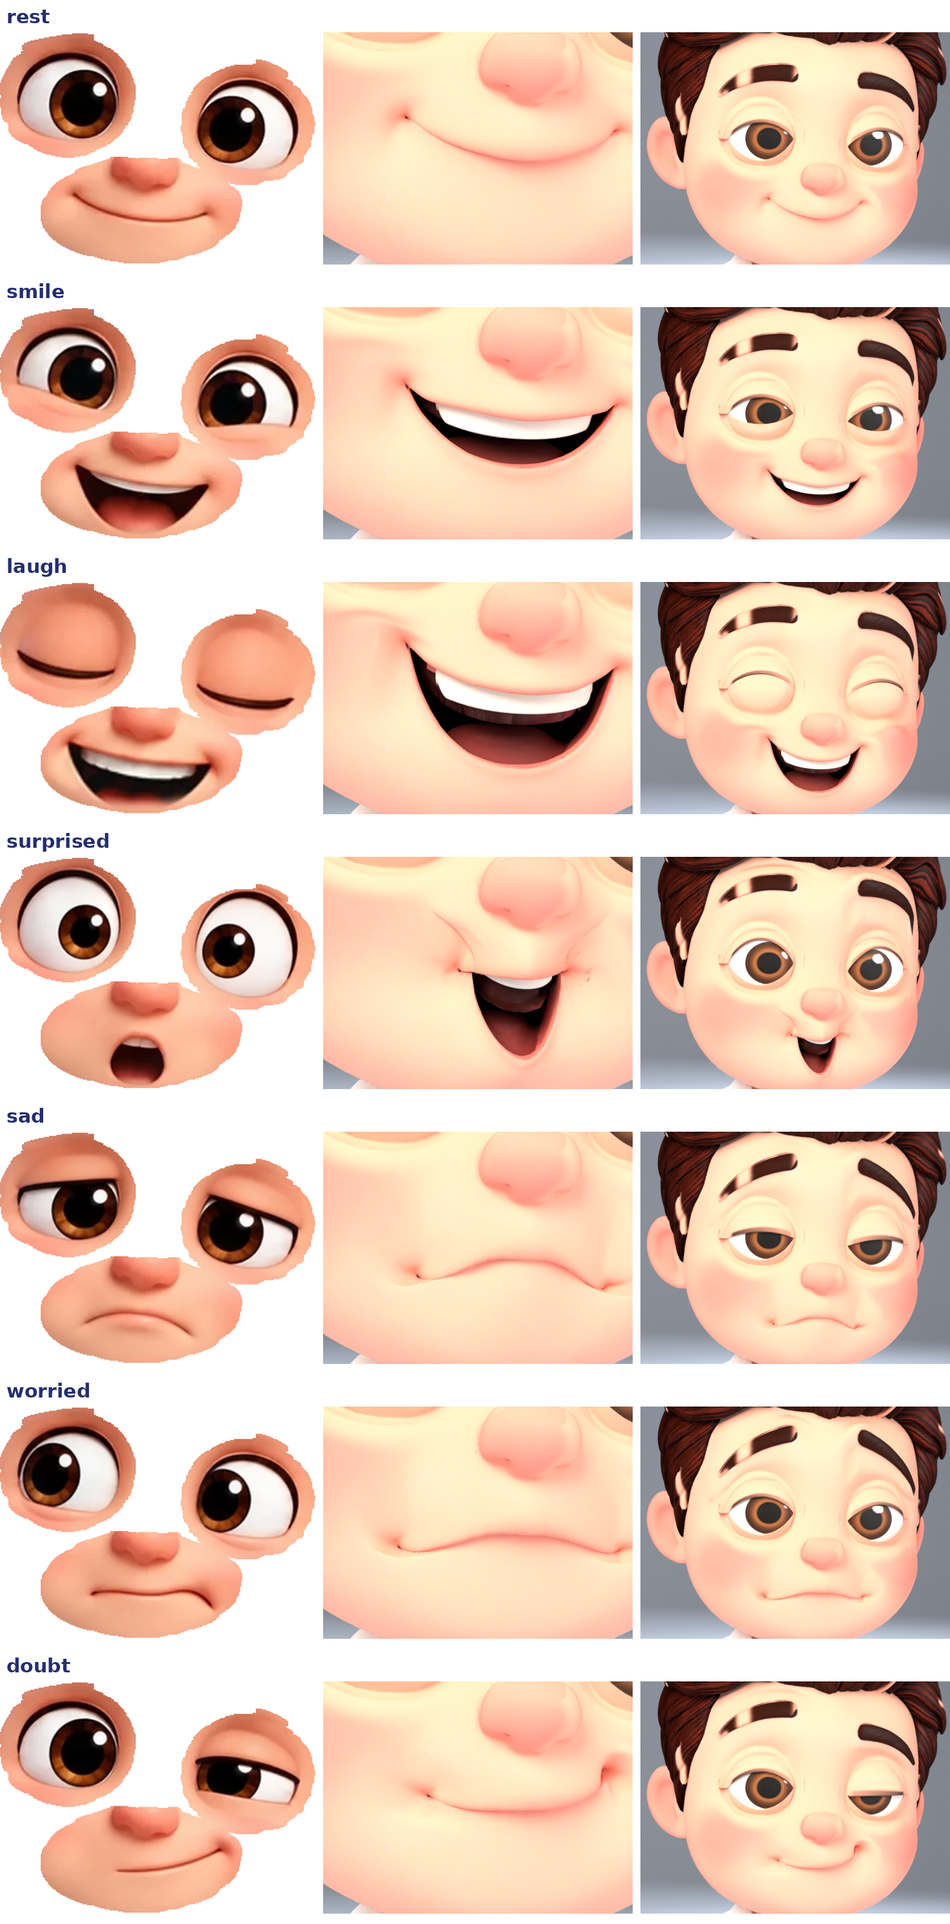
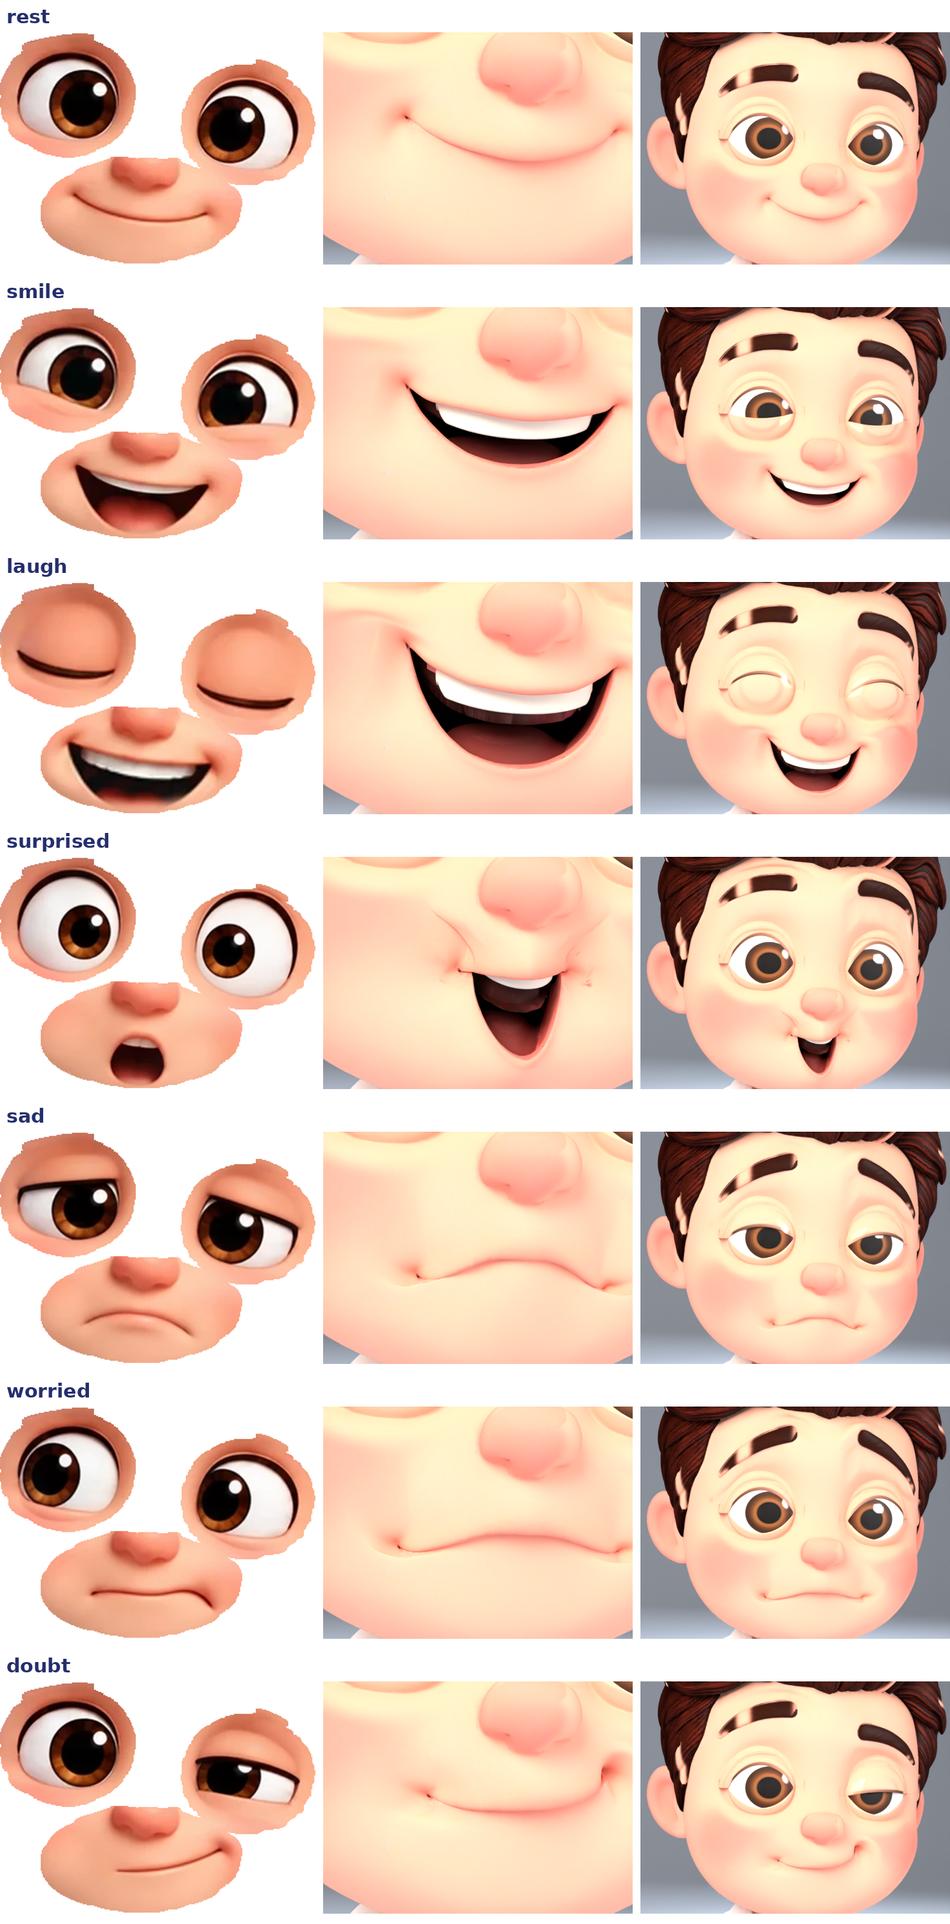
3D Dr. Smiley, step A review 3: the eyes after Jose's notes (code and notes; pictures follow)
The upper lid rests on the iris top (it covered a third of it: a tired
look); the blink closes on the lower lid's edge (the gap between them was
the dark crescent); the lash line lives on rows with a fixed spacing (by
row, a shut lid's lash zone grew into half the eye); thinner lid edges,
the dome's clearance only over the iris; the smile keeps the eyes bright
(cheeks and lower lids up, the upper lid lifted a touch; the cheek key
reaches the lower socket); the balls 3 mm deeper than at first. Tried and
reverted, noted in the handoff: a flatter ball, an under-brow pad, a
forward-only lower lid. The review script adds side profiles, the
in-between shapes and a wireframe. Docs only.

Claude-Session: https://claude.ai/code/session_018cy8uW9Woai5Ttyox29VXD

diff --git a/docs/mockups/smiley-3d/tripo_gateA.py b/docs/mockups/smiley-3d/tripo_gateA.py
@@ -1,6 +1,10 @@
-"""Step A's gate picture (out/plan-match.png): neutral, warm smile and joyful
-laugh beside Jose's reference tiles, the old shell lids beside the new skin
-lids, front and three-quarter; a blink; eye close-ups. out/plan/gateA.png
+"""Step A's review pictures (out/plan-match.png; Jose's review brief 2026-10-23):
+  out/plan/gateA.png        neutral, warm smile, joyful laugh, relaxed blink: Jose's reference
+                            tile, the old shell lids, the new lids front, three-quarter, one eye
+  out/plan/gateA-side.png   the side profile: rest and blink, old and new
+  out/plan/gateA-moves.png  the in-between shapes: rest -> blink -> rest, rest -> smile -> laugh
+  out/plan/gateA-wire.png   the wireframe of the eyelid ring and the face round it
+Same camera, light and framing for the old and the new.
 
   python3 tripo_gateA.py [old.blend]     old.blend: the model before the skin lids, for the "before" tiles
 """
@@ -20,36 +24,113 @@ REF = '/root/.claude/uploads/0a3f0758-232c-5ae0-8fad-34b3e0089a86/8238b9ff-image
 TILES = {'rest': (60, 100, 460, 400), 'smile': (560, 100, 960, 400), 'laugh': (60, 470, 460, 770), 'blink': (560, 1210, 960, 1510)}
 LABEL = {'rest': 'neutral', 'smile': 'warm smile', 'laugh': 'joyful laugh', 'blink': 'relaxed blink'}
 FB = '/usr/share/fonts/truetype/dejavu/DejaVuSans-Bold.ttf'
+W, G = 480, 12
 
 
-def faces(blend, tag):
+def studio(blend):
     bpy.ops.wm.open_mainfile(filepath=blend)
     ob = bpy.data.objects['Mesh_0']
     build.STYLE_NOW = 'tripo'; cam = build.studio(); sc = bpy.context.scene; sc.camera = cam
     sc.cycles.samples = int(os.environ.get('SAMPLES', 20))
     op = np.load(os.path.join(HERE, 'in', 'mouth-opening.npz')); CX = float(op['CX'])
     eL = bpy.data.objects['Eye.L'].matrix_world.translation
+    states = dict(MOUTHS); states['blink'] = dict(close=1, lid=(1, 1))
+    return ob, CX, eL, states
+
+
+def faces(blend, tag):
+    ob, CX, eL, states = studio(blend)
     out = {}
-    states = dict(MOUTHS)
-    states['blink'] = dict(close=1, lid=(1, 1))
     for name in ('rest', 'smile', 'laugh', 'blink'):
         set_face(ob, **states[name])
-        out[name, 'front'] = shot(os.path.join(TMP, f'ga-{tag}-{name}-front.png'), (CX, 0, .74), .95, 0, 2, (480, 360))
-        out[name, '34'] = shot(os.path.join(TMP, f'ga-{tag}-{name}-34.png'), (CX, 0, .74), .95, -35, 3, (480, 360))
-        out[name, 'eye'] = shot(os.path.join(TMP, f'ga-{tag}-{name}-eye.png'), (eL.x, 0, eL.z), .42, -8, 4, (480, 360))
+        out[name, 'front'] = shot(os.path.join(TMP, f'ga-{tag}-{name}-front.png'), (CX, 0, .74), .95, 0, 2, (W, 360))
+        out[name, '34'] = shot(os.path.join(TMP, f'ga-{tag}-{name}-34.png'), (CX, 0, .74), .95, -35, 3, (W, 360))
+        out[name, 'eye'] = shot(os.path.join(TMP, f'ga-{tag}-{name}-eye.png'), (eL.x, 0, eL.z), .42, -8, 4, (W, 360))
+        if name in ('rest', 'blink'):
+            out[name, 'side'] = shot(os.path.join(TMP, f'ga-{tag}-{name}-side.png'), (eL.x, -.09, eL.z), .5, -82, 2, (W, 360))   # brow to cheek in view
     return out
+
+
+def moves(blend):
+    """The in-between shapes, the face at rest otherwise."""
+    ob, CX, eL, states = studio(blend)
+    rows = []
+    seq = [('rest → blink → rest', [dict(lid=(k, k)) for k in (0, .3, .6, .85, 1, .7, .35, 0)])]
+    sm = states['smile']; la = states['laugh']
+    seq.append(('rest → smile → laugh', [dict()] + [dict(close=0, cheek=(k, k), lower=(.45 * k, .45 * k), lid=(.32 - .1 * k, .32 - .1 * k), brow=((2 * k, 0), (2.4 * k, 0))) for k in (.5, 1)]
+                + [dict(close=0, cheek=(1 + .6 * k, 1 + .6 * k), happy=k, lower=(.45 + .55 * k, .45 + .55 * k), brow=((2 + .8 * k, 0), (2.4 + k, 0)), mouth={'JawOpen': 1.2 * k, 'CornerUp.L': k, 'CornerUp.R': k}) for k in (.35, .7, 1)]))
+    for title, ctls in seq:
+        tiles = []
+        for k, ctl in enumerate(ctls):
+            set_face(ob, **ctl)
+            tiles.append(shot(os.path.join(TMP, f'ga-move-{len(rows)}-{k}.png'), (CX, 0, .76), .7, -12, 3, (300, 240)))
+        row = Image.new('RGB', (300 * len(tiles) + 8 * (len(tiles) - 1), 240 + 36), 'white'); g = ImageDraw.Draw(row)
+        g.text((8, 6), title, font=ImageFont.truetype(FB, 22), fill=(37, 46, 109))
+        for k, t in enumerate(tiles):
+            row.paste(t, (308 * k, 36))
+        rows.append(row)
+    sheet = Image.new('RGB', (max(r.width for r in rows), sum(r.height + 10 for r in rows)), 'white')
+    y = 0
+    for r in rows:
+        sheet.paste(r, (0, y)); y += r.height + 10
+    sheet.save(os.path.join(HERE, 'out', 'plan', 'gateA-moves.png'))
+
+
+def wire(blend):
+    """The eyelid ring and the face round it as a wireframe: a copy of the faces near
+    the left eye with a Wireframe modifier (black), over the shaded face."""
+    ob, CX, eL, states = studio(blend)
+    me = ob.data
+    co = np.empty(len(me.vertices) * 3); me.vertices.foreach_get('co', co); co = co.reshape(-1, 3)
+    near = np.linalg.norm(co - np.array(eL), axis=1) < .06
+    pv = np.empty(len(me.loops), dtype=np.int64); me.loops.foreach_get('vertex_index', pv); tri = pv.reshape(-1, 3)
+    keep = near[tri].all(1)
+    import bmesh
+    bm = bmesh.new()
+    idx = {}
+    for i in np.nonzero(near)[0]:
+        idx[int(i)] = bm.verts.new(co[i])
+    for f in tri[keep]:
+        try:
+            bm.faces.new([idx[int(v)] for v in f])
+        except ValueError:
+            pass
+    wm = bpy.data.meshes.new('EyeWire'); bm.to_mesh(wm); bm.free()
+    wo = bpy.data.objects.new('EyeWire', wm); bpy.context.scene.collection.objects.link(wo)
+    wo.matrix_world = ob.matrix_world.copy()
+    mod = wo.modifiers.new('wire', 'WIREFRAME'); mod.thickness = .00025; mod.use_replace = True
+    m = bpy.data.materials.new('Wire'); m.use_nodes = True
+    e = m.node_tree.nodes.new('ShaderNodeEmission'); e.inputs['Color'].default_value = (.02, .02, .05, 1); e.inputs['Strength'].default_value = 1
+    m.node_tree.links.new(e.outputs[0], m.node_tree.nodes['Material Output'].inputs['Surface'])
+    wm.materials.append(m)
+    out = []
+    for name in ('rest', 'blink'):
+        set_face(ob, **states[name])
+        # the wire copy does not move with the keys: for the blink it is rebuilt from the evaluated mesh
+        dg = bpy.context.evaluated_depsgraph_get(); ev = ob.evaluated_get(dg).data
+        ec = np.empty(len(ev.vertices) * 3); ev.vertices.foreach_get('co', ec); ec = ec.reshape(-1, 3)
+        for i, v in idx.items():
+            pass
+        wco = np.empty(len(wm.vertices) * 3); wm.vertices.foreach_get('co', wco); wco = wco.reshape(-1, 3)
+        order = np.nonzero(near)[0]
+        wm.vertices.foreach_set('co', ec[order].ravel()); wm.update()
+        out.append(shot(os.path.join(TMP, f'ga-wire-{name}.png'), (eL.x, -.1, eL.z), .3, -20, 6, (700, 525)))
+    sheet = Image.new('RGB', (700 * 2 + 12, 525 + 36), 'white'); g = ImageDraw.Draw(sheet)
+    g.text((8, 6), 'wireframe: the lid ring and the face round it, rest and blink (left eye, three-quarter)', font=ImageFont.truetype(FB, 22), fill=(37, 46, 109))
+    sheet.paste(out[0], (0, 36)); sheet.paste(out[1], (712, 36))
+    sheet.save(os.path.join(HERE, 'out', 'plan', 'gateA-wire.png'))
 
 
 if __name__ == '__main__':
     old = sys.argv[1] if len(sys.argv) > 1 and os.path.exists(sys.argv[1]) else None
+    new_blend = os.path.join(HERE, 'in', 'tripo-face.blend')
     before = faces(old, 'old') if old else {}
-    now = faces(os.path.join(HERE, 'in', 'tripo-face.blend'), 'new')
+    now = faces(new_blend, 'new')
     ref = Image.open(REF).convert('RGB')
     f = ImageFont.truetype(FB, 24)
-    W = 480; G = 12
     rows = []
     for name in ('rest', 'smile', 'laugh', 'blink'):
-        tiles = [(LABEL[name] + ': your reference', ref.crop(TILES[name]).resize((W, 360)))]
+        tiles = [(LABEL[name] + ': reference (generated art)', ref.crop(TILES[name]).resize((W, 360)))]
         if before:
             tiles.append(('before (shell lids)', before[name, 'front']))
         tiles += [('now, front', now[name, 'front']), ('now, three-quarter', now[name, '34']), ('now, one eye', now[name, 'eye'])]
@@ -62,4 +143,16 @@ if __name__ == '__main__':
     for r in rows:
         sheet.paste(r, (0, y)); y += r.height + 10
     sheet.save(os.path.join(HERE, 'out', 'plan', 'gateA.png'))
+    # the side profiles
+    tiles = []
+    for name in ('rest', 'blink'):
+        if before:
+            tiles.append((LABEL[name] + ', side: before', before[name, 'side']))
+        tiles.append((LABEL[name] + ', side: now', now[name, 'side']))
+    row = Image.new('RGB', ((W + G) * len(tiles), 360 + 40), 'white'); g = ImageDraw.Draw(row)
+    for i, (lab, im) in enumerate(tiles):
+        g.text(((W + G) * i + 8, 6), lab, font=f, fill=(37, 46, 109)); row.paste(im, ((W + G) * i, 40))
+    row.save(os.path.join(HERE, 'out', 'plan', 'gateA-side.png'))
+    moves(new_blend)
+    wire(new_blend)
     print('done')

diff --git a/docs/mockups/smiley-3d/tripo_lids.py b/docs/mockups/smiley-3d/tripo_lids.py
@@ -39,17 +39,18 @@ COLS, ROWS = 160, 22           # columns across the eye, rows from the edge out 
 RIM = 2                        # rows rolled under the edge toward the ball
 S_X, S_Z = 1.3, 1.2            # the cut, in ball units (an oval a little wider than tall)
 W_C, U_C = -.06, .97           # the corners: height and half width, ball units
-H_TOP, H_BOT = .5, -.8         # the edges at rest: the upper on the iris top, the lower under it
-H_SHUT = -.74                  # the upper edge shut (just above the resting lower lid)
+H_TOP, H_BOT = .72, -.76       # the edges at rest: the upper just touching the iris top (its top is at .8), the lower on the iris bottom (at -.86 the closure sat 10 mm behind the cheek, a V-crease)
+H_SHUT = H_BOT + .015          # the upper edge shut: on the lower lid's edge (a .06 gap showed as a dark crescent)
 H_LOW = .4                     # the lower edge fully raised (the laugh: a high upward arc)
-H_WIDE = .74                   # the upper edge raised (surprise: white above the iris)
+H_WIDE = .88                   # the upper edge raised (surprise: white above the iris)
 Q = .8                         # the edge curve's roundness
-THICK = .0012                  # the lid's thickness at its edge
+THICK = .0008                  # the lid's thickness at its edge
 BULGE = .0026                  # the glass dome over the iris (tripo_eyes2.py)
 U_STEPS, D_STEPS = 6, 4
 RIM_W = (.03, .015)            # the rim rows, inward from the edge (ball units of height)
-FOLD_AT, FOLD_W, FOLD_DEPTH = .42, .07, .0011   # the fold above the open eye: where along the lid (0 edge .. 1 cut), its width, its depth (into the face)
-LASH_FULL, LASH_END = .16, .27                 # the lash line: full to this part of the lid, gone by this
+FOLD_AT, FOLD_W, FOLD_DEPTH = .42, .11, .0008   # the fold above the open eye: where along the lid (0 edge .. 1 cut), its width, its depth (into the face)
+NFIX, FIX_STEP = 6, .015                       # rows above the edge at a fixed .5 mm spacing (ball units), in every state
+LASH_ROWS = (1., 1., 1., 1., .6, .25)          # the lash line on those rows, from the edge up: 2 mm full, gone by 3 mm
 FEATHER = .3                   # the ring's flat colour feathers into his texture this far past the cut (ball units)
 
 
@@ -118,10 +119,14 @@ class EyeRing:
         i0, j0 = fi.astype(int), fj.astype(int); ti, tj = fi - i0, fj - j0
         return g[i0, j0] * (1 - ti) * (1 - tj) + g[i0 + 1, j0] * ti * (1 - tj) + g[i0, j0 + 1] * (1 - ti) * tj + g[i0 + 1, j0 + 1] * ti * tj
 
-    def ball_y(self, a, i, upper):
+    def ball_y(self, a, i, upper, shut=0.):
         """y of the lid over the ball at radius a (ball units): the ball's front plus the
-        lid's thickness, more over the glass dome; past the ball, flat. Rows 0, 1: the rim."""
-        margin = THICK + (BULGE + .0002) * (1 - smooth((min(a, 1.) - .7) / .25)) + (.0006 if upper else 0.)
+        lid's thickness, more over the glass dome; past the ball, flat. Rows 0, 1: the rim.
+        shut (0..1): a closing lid settles onto the dome (a lid that kept its open clearance
+        when shut read as a cap standing off the eye)."""
+        # the dome's clearance only over the dome (the iris, a < .6): at the open lid's edge it made a 5 mm plate
+        # (shut, the clearance over the dome was cut to a tenth: the glass dome then poked through the shut lid)
+        margin = THICK + (BULGE + .0003) * (1 - smooth((min(a, 1.) - .5) / .2)) + ((.0005 * (1 - .7 * shut)) if upper else 0.)
         if i == 0:
             margin = .0003
         elif i == 1:
@@ -137,17 +142,23 @@ class EyeRing:
         pts = np.zeros((RIM + 1 + ROWS, COLS + 1, 3))
         sgn = 1 if upper else -1
         lift = 0. if upper else (h - H_BOT) / (H_LOW - H_BOT)                # the lower lid rising: 0 .. 1
+        shut = float(np.clip((H_TOP - h) / (H_TOP - H_SHUT), 0, 1)) if upper else 0.   # the upper lid closing: 0 .. 1
         for j, u in enumerate(self.u):
             we = float(edge_h(u, h))
             # the ring ends 5% inside the cut: on the cut itself its outer row lay on top of the
             # cut's zigzag, and the bridge between them was all slivers (a dotted ring)
             ws = sgn * S_Z * math.sqrt(max(0., 1 - (u / S_X) ** 2)) * .93
             taper = float(np.clip((U_C - abs(u)) / .1, 0, 1))                 # the rim thins out at the corners
-            rows = [we - sgn * RIM_W[0] * taper, we - sgn * RIM_W[1] * taper] + [we + (ws - we) * (k / ROWS) ** 1.4 for k in range(ROWS + 1)]
+            thin = 1 - .5 * shut                                                # the rim rolls thinner as the lid shuts (a delicate closure line)
+            # the first NFIX rows above the edge keep a fixed spacing in every state (the lash line
+            # lives on them: spread with the rest, a shut lid's lash zone grew into half the eye)
+            fixed = [we + sgn * FIX_STEP * k for k in range(NFIX + 1)]
+            rest_span = (ws - fixed[-1])
+            rows = [we - sgn * RIM_W[0] * taper * thin, we - sgn * RIM_W[1] * taper * thin] + fixed + [fixed[-1] + rest_span * (k / (ROWS - NFIX)) ** 1.2 for k in range(1, ROWS - NFIX + 1)]
             y_cut = float(self.y_cut['up' if upper else 'lo'][j])
             for i, w in enumerate(rows):
                 a = math.hypot(u, w)
-                yb = self.ball_y(a, i, upper)
+                yb = self.ball_y(a, i, upper, shut)
                 if i < RIM:
                     y = yb
                 else:
@@ -157,7 +168,7 @@ class EyeRing:
                     # every earlier scheme (a curve to the cut, the skin's slope matched per column)
                     # met his skin in a crease that read as a ring round the eye
                     ys = self.cast_y(u, w)
-                    F = float(smooth((1 - a) / .5)) if a < 1 else 0.
+                    F = float(smooth((1 - a) / (.5 + .4 * shut))) if a < 1 else 0.     # shut: the lid leaves the ball earlier, a tent over its rim (a cap otherwise)
                     y = F * yb + (1 - F) * ys
                     if a < 1:                                            # never behind the ball's clearance (softly)
                         y = (y + yb) / 2 - math.sqrt(((y - yb) / 2) ** 2 + .0006 ** 2)
@@ -167,8 +178,6 @@ class EyeRing:
                         openness = float(np.clip((h - H_SHUT) / (H_TOP - H_SHUT), 0, 1))
                         y += FOLD_DEPTH * openness * math.exp(-((t - FOLD_AT) / FOLD_W) ** 2) * float(np.clip(1 - (u / U_C) ** 2, 0, 1)) ** .5
                     y -= .0022 * lift * (1 - (u / S_X) ** 2) * float(smooth((t - .2) / .3) * (1 - smooth((t - .55) / .45)))
-                if i == RIM + ROWS:
-                    y = y_cut
                 pts[i, j] = (self.rx * u, y, self.rz * w)
         return pts
 
@@ -189,6 +198,7 @@ def cut_and_ring(ob, eyes):
     """The surgery. eyes: {'L': Eye.L object, 'R': Eye.R}. Returns {'L': EyeRing, 'R': EyeRing}."""
     import tripo_lib as T, build
     me = ob.data
+    # (an under-brow pad, the skin above the eye brought 4 mm forward, was tried: any local lift read as a raised disc round the eye)
     rings = {s: EyeRing(e, s) for s, e in eyes.items()}
     img, px = T.texture(ob)
     bm = bmesh.new(); bm.from_mesh(me)
@@ -261,12 +271,11 @@ def cut_and_ring(ob, eyes):
             # and the first tenth of the lid's front: the edge zone wraps over the ball and is
             # seen foreshortened from the front, so a line only on it read as a hairline
             outer = (1 + inner * u / U_C) / 2                           # 0 at the nose .. 1 at the outer corner
-            for i in range(RIM + 1, RIM + 1 + ROWS):
-                t = (i - RIM) / ROWS
-                full = LASH_FULL * (1 + .5 * outer)                    # thicker toward the outer corner
-                k = 1. if t <= full else 1 - float(smooth((t - full) / (LASH_END - LASH_FULL)))
-                if k > 0:
-                    verts['up'][i][j][lash_lay] = k * taper
+            for n, k in enumerate(LASH_ROWS):
+                kk = min(1., k * (1 + .6 * outer))                     # thicker toward the outer corner
+                verts['up'][RIM + 1 + n][j][lash_lay] = kk * taper
+            if outer > .5:                                             # the outer third: one more row
+                verts['up'][RIM + 1 + len(LASH_ROWS)][j][lash_lay] = .5 * (outer - .5) * 2 * taper
         faces = []
         for key in ('up', 'lo'):
             vv = verts[key]

diff --git a/docs/mockups/smiley-3d/tripo_eyes.py b/docs/mockups/smiley-3d/tripo_eyes.py
@@ -22,13 +22,13 @@ HERE = T.HERE
 # blink lid added; no looking around)
 EYE_STYLE = os.environ.get('EYE_STYLE', 'matched')
 S = {'v1':      dict(cover=1.16, depth=.014, sink=.0055, open=50, ball=True, liner=False),
-     'matched': dict(cover=1.0, depth=.012, sink=.0062, open=72, ball=True, liner=True),
+     'matched': dict(cover=1.0, depth=.012, sink=.0062, open=72, ball=True, liner=True),   # depth 8 was tried (2026-10-23) for the skin lids: a flatter ball read as thick plates; 12 kept
      'painted': dict(cover=1.0, depth=.0075, sink=.0045, open=88, ball=False, liner=False)}[EYE_STYLE]
 COVER, DEPTH, SINK, OPEN = S['cover'], S['depth'], S['sink'], S['open']
 # the balls sunk deeper for the skin lids (tripo_lids.py, 2026-10-23): at 6.2 mm the ball stood 6 mm proud
 # of the painted skin and the lids had to climb 10 mm back to the face round it, a trench that read
 # as goggles; EYE_SINK overrides (the size and the opening are unchanged)
-SINK = float(os.environ.get('EYE_SINK', .0100 if EYE_STYLE == 'matched' else SINK))
+SINK = float(os.environ.get('EYE_SINK', .0090 if EYE_STYLE == 'matched' else SINK))   # 9 (2026-10-23, the skin lids): at 6.2 the lids stood proud (goggles), at 12 the shut eye sat deep behind the cheek
 SHUT = -62 if EYE_STYLE == 'v1' else -68   # lid edge elevation when closed (matched: the ball's whole opening shows, so all the way down)
 
 

diff --git a/docs/mockups/smiley-3d/tripo_mouths.py b/docs/mockups/smiley-3d/tripo_mouths.py
@@ -23,7 +23,7 @@ TMP = os.path.join(HERE, 'in', 'faceplan')
 # his left brow, your right, goes a fifth further: DR_BROW_SIDE)
 MOUTHS = {
     'rest':      dict(close=1),
-    'smile':     dict(close=0, cheek=(1, 1), lower=(.3, .3), brow=((2, 0), (2.4, 0))),   # the cheeks push the lower lids up a little (skin lids, 2026-10-23)
+    'smile':     dict(close=0, cheek=(1, 1), lower=(.45, .45), lid=(.22, .22), brow=((2, 0), (2.4, 0))),   # the cheeks push the lower lids up, the upper lids lift a touch (lid .32 = rest): bright eyes, not slits (Jose)
     # pushed toward the size of his drawings (Jose: "push them further"), the
     # muscles past their natural strength the way a cartoon exaggerates
     'laugh':     dict(close=0, mouth={'JawOpen': 1.2, 'CornerUp.L': 1, 'CornerUp.R': 1}, cheek=(1.6, 1.6),

diff --git a/docs/mockups/smiley-3d/tripo_faceplan.py b/docs/mockups/smiley-3d/tripo_faceplan.py
@@ -224,7 +224,7 @@ def cheeks(co0, front, amount, CX):
         c = np.array([CX + .08 * sx, .695])
         x, z = co0[:, 0], co0[:, 2]
         r = np.hypot((x - c[0]) / .034, (z - c[1]) / .03)
-        w = (1 - smooth(r)) * (1 - smooth((z - .715) / .02)) * front
+        w = (1 - smooth(r)) * (1 - smooth((z - .728) / .022)) * front      # up to the lower socket (.715: the lower lids got nothing from the cheeks, 2026-10-23)
         co[:, 2] += w * .009 * amount
         co[:, 1] -= w * .005 * amount
     return co

diff --git a/docs/handoff-smiley-3d.md b/docs/handoff-smiley-3d.md
@@ -114,6 +114,30 @@ a 1.1 mm groove at .42 of the lid, flattening as it shuts). The seam is
 gone from the face views; a faint mark stays at the outer corners in
 close-ups. Waiting on Jose: `out/plan-lids.png`.
 
+## Step A, review 3 (2026-10-23, later): after Jose's detailed notes
+
+Jose (not approved): neutral too covered (tired), smile slits under heavy
+lids, laugh "protruding caps with a thin line", blink "a thick dark crescent
+under the lids"; fix in order neutral, blink (side profile too), smile and
+laugh from those, the in-betweens; show large front and three-quarter, one
+eye, a wireframe; no approval requests for minor steps. Done: `H_TOP` .72
+(the lid on the iris top), `H_BOT` -.76, `H_SHUT` = H_BOT + .015 (the
+closure on the lower lid: the .06 gap was the dark crescent); the shut lid
+settles onto the dome (`ball_y(shut)`), its rim thinner; the lash line on
+rows with a FIXED .5 mm spacing (`NFIX`, `FIX_STEP`, `LASH_ROWS`): by row
+with the rest spacing, a shut lid's lash zone grew into half the eye (the
+"dark half" that survived every lighting test); `THICK` .8 mm and the
+dome's clearance only over the iris (a < .6); the smile recipe lower .45,
+lid .22 (bright eyes); `cheeks()` reaches the lower socket (.728). Tried
+and reverted: a flatter ball (depth 8: thick plates), an under-brow pad
+(any local lift read as a raised disc), SINK 12 (deep-set, a V-crease),
+the lower lid "forward only" rule (a shelf). Kept: depth 12, SINK 9.
+Review: `tripo_gateA.py` (gateA.png, gateA-side.png, gateA-moves.png,
+gateA-wire.png), page `out/plan-lids.png`. Remaining, said plainly on the
+page: the shut eye's mound and its depth under the brow (his sculpt's eye
+dish is 9 mm behind the egg's front), the lower lid's small ledge, a faint
+outer-corner seam, the lash thinner than the art's.
+
 ## Rebuild (about 15 minutes)
 
 ```
